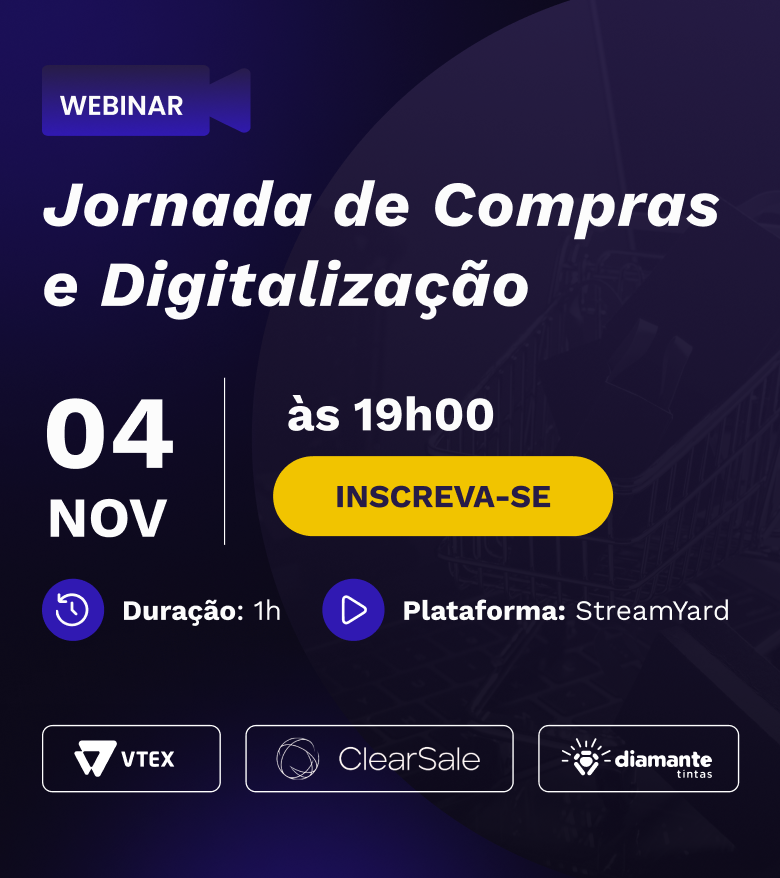
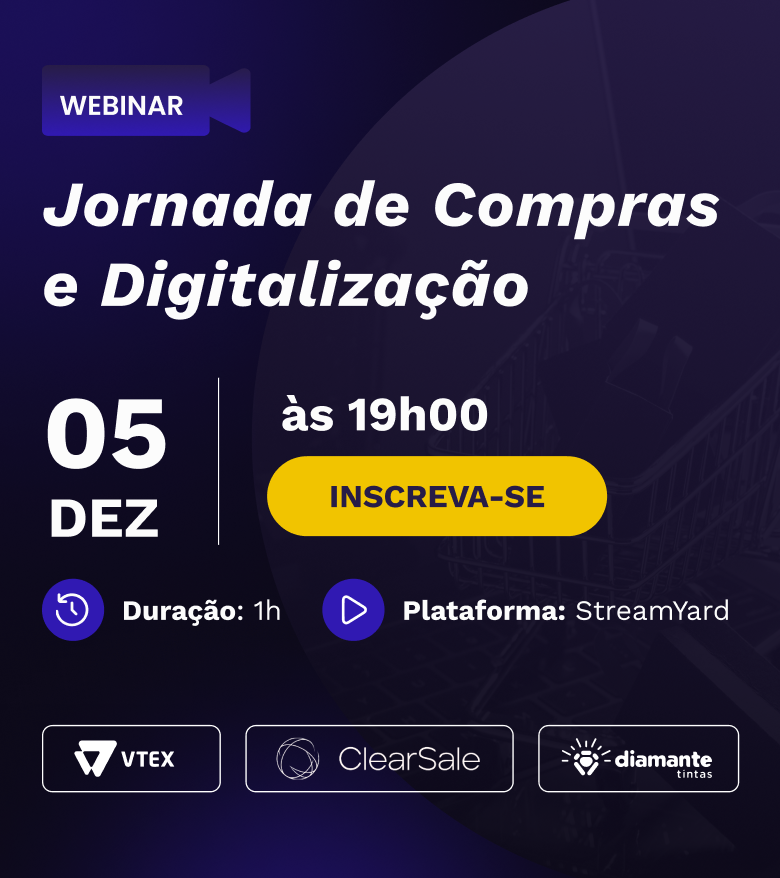
update event date

diff --git a/src/components/About.jsx b/src/components/About.jsx
@@ -11,7 +11,7 @@ const About = () => {
 
       <p className="about-text">
         Prepare-se para um mergulho profundo na <strong>Jornada de Compras e
-        Digitalização!</strong> No dia <strong>04 DE NOVEMBRO, às 19h</strong>, a Econverse, agência
+        Digitalização!</strong> No dia <strong>05 DE DEZEMBRO, às 19h</strong>, a Econverse, agência
         especialista em implementação de e-commerce, realizará um webinar
         imperdível sobre omnicanalidade. Nosso objetivo é mostrar como integrar
         canais físicos e digitais para oferecer uma experiência de compra fluida
